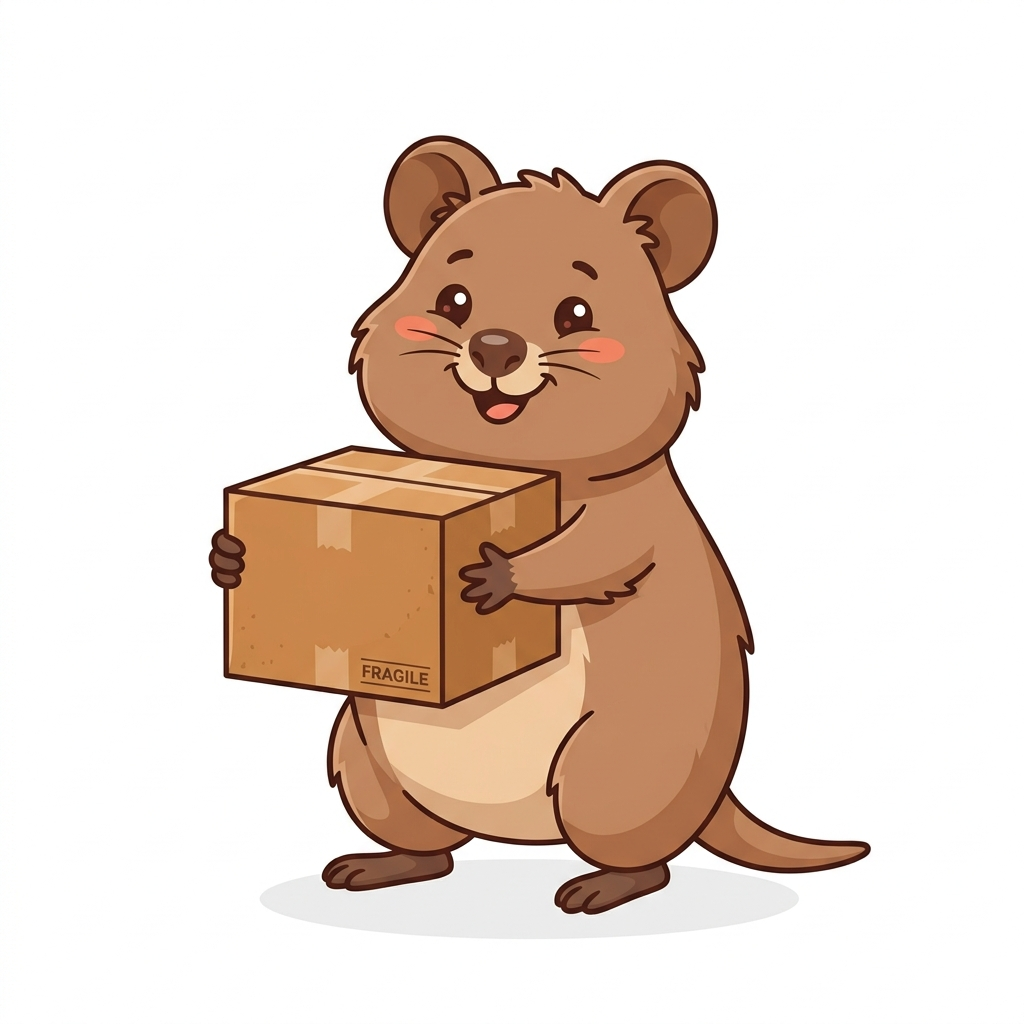
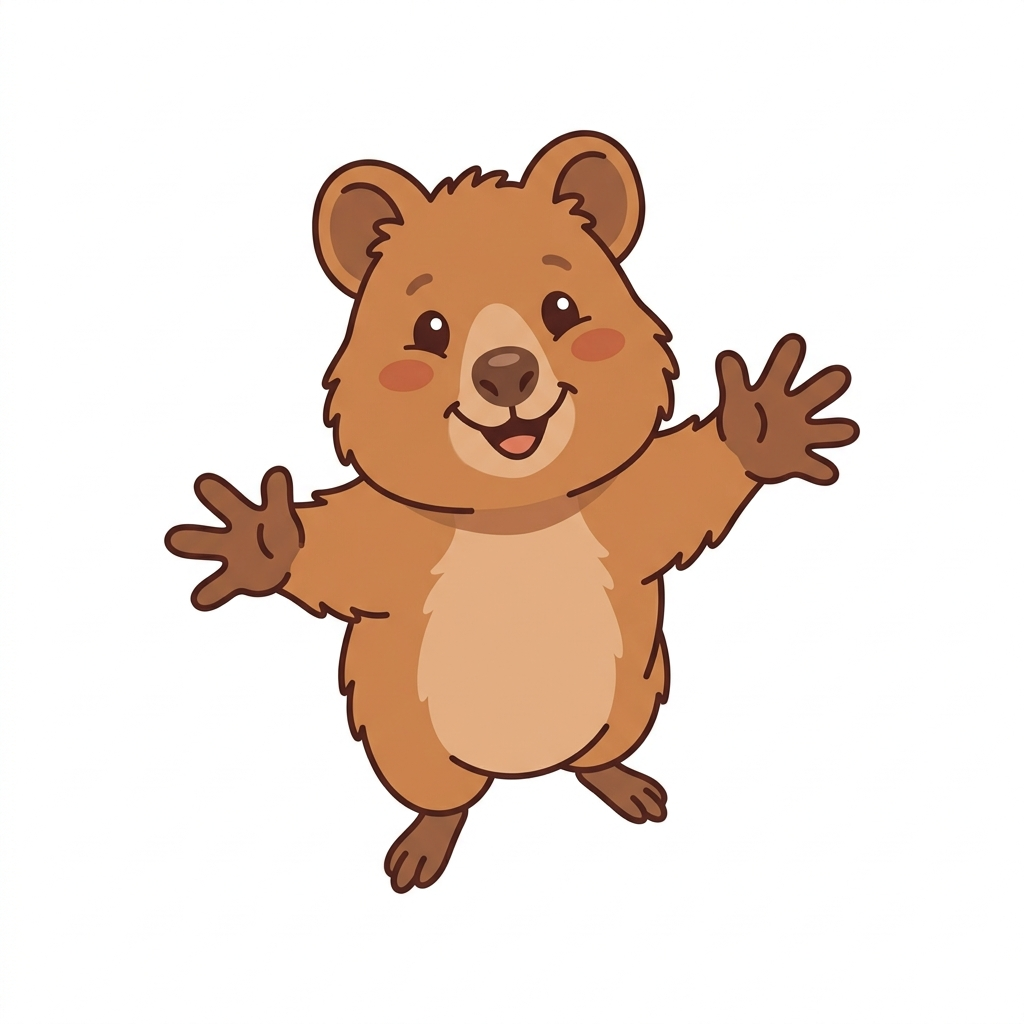
feat: refine quokka animations based on user feedback

Changed region(s): [[0.1562, 0.125, 0.8438, 0.9062]]

diff --git a/public/app.js b/public/app.js
@@ -1023,6 +1023,14 @@ function playPlusOneAnimation(btn) {
   const scrollListener = () => updatePosition();
   window.addEventListener('scroll', scrollListener, true);
   
+  const orbitWrapper = document.createElement('div');
+  orbitWrapper.style.position = 'absolute';
+  orbitWrapper.style.left = '0';
+  orbitWrapper.style.top = '0';
+  orbitWrapper.style.width = '0';
+  orbitWrapper.style.height = '0';
+  orbitWrapper.style.animation = 'quokkaOrbit 1.5s linear infinite';
+  
   const quokka = document.createElement('img');
   getTransparentImage('images/quokka_dance.png', (src) => {
     quokka.src = src;
@@ -1032,8 +1040,10 @@ function playPlusOneAnimation(btn) {
   quokka.style.height = 'auto';
   quokka.style.marginTop = '-55px';
   quokka.style.marginLeft = '-55px';
-  quokka.style.animation = 'quokkaOrbit 1.5s linear infinite';
-  container.appendChild(quokka);
+  quokka.style.animation = 'quokkaBounce 0.4s ease-in-out infinite';
+  
+  orbitWrapper.appendChild(quokka);
+  container.appendChild(orbitWrapper);
   
   const flowerInterval = setInterval(() => {
     const flower = document.createElement('div');
@@ -1125,40 +1135,55 @@ function playMinusOneCancelAnimation(btn) {
   const scrollListener = () => updatePosition();
   window.addEventListener('scroll', scrollListener, true);
   
-  const minusOne = document.createElement('div');
-  minusOne.innerText = '-1';
-  minusOne.style.position = 'absolute';
-  minusOne.style.color = 'var(--danger-color)';
-  minusOne.style.fontWeight = 'bold';
-  minusOne.style.fontSize = '32px';
-  minusOne.style.left = '-15px';
-  minusOne.style.top = '-30px';
-  minusOne.style.animation = 'floatUpFade 1s forwards';
-  container.appendChild(minusOne);
+  const quokkaMover = document.createElement('div');
+  quokkaMover.style.position = 'absolute';
+  quokkaMover.style.left = '40px';
+  quokkaMover.style.top = '-50px';
+  quokkaMover.style.width = '120px';
+  quokkaMover.style.height = '120px';
   
   const quokka = document.createElement('img');
   getTransparentImage('images/quokka_cry.png', (src) => {
     quokka.src = src;
   });
   quokka.style.position = 'absolute';
-  quokka.style.width = '120px';
+  quokka.style.width = '100%';
   quokka.style.height = 'auto';
-  quokka.style.left = '40px';
-  quokka.style.top = '-60px';
+  quokkaMover.appendChild(quokka);
+  container.appendChild(quokkaMover);
   
-  // 點擊動作後哭泣離開
-  quokka.style.transform = 'translateX(-20px) scale(1)';
-  quokka.style.transition = 'transform 0.2s';
-  container.appendChild(quokka);
+  // 1. Walk in
+  quokkaMover.style.animation = 'quokkaWalkIn 1s ease-out forwards';
+  quokka.style.animation = 'quokkaWobble 0.4s infinite';
   
   setTimeout(() => {
-    quokka.style.transform = 'translateX(0px) scale(1)';
-    quokka.style.animation = 'quokkaLeave 4.8s forwards';
+    // 2. Stop wiggling, do press
+    quokka.style.animation = 'none';
+    quokkaMover.style.animation = 'quokkaPress 0.4s ease-in-out forwards';
+    
     setTimeout(() => {
-      container.remove();
-      window.removeEventListener('scroll', scrollListener, true);
-    }, 4800);
-  }, 200);
+      // 3. Show -1 text
+      const minusOne = document.createElement('div');
+      minusOne.innerText = '-1';
+      minusOne.style.position = 'absolute';
+      minusOne.style.color = 'var(--danger-color)';
+      minusOne.style.fontWeight = 'bold';
+      minusOne.style.fontSize = '32px';
+      minusOne.style.left = '-15px';
+      minusOne.style.top = '-30px';
+      minusOne.style.animation = 'floatUpFade 1s forwards';
+      container.appendChild(minusOne);
+      
+      // 4. Wave and leave
+      setTimeout(() => {
+        quokkaMover.style.animation = 'quokkaLeave 4.5s forwards';
+        setTimeout(() => {
+          container.remove();
+          window.removeEventListener('scroll', scrollListener, true);
+        }, 4500);
+      }, 500);
+    }, 200);
+  }, 1000);
 }
 
 // 處理新的輸入框報名與防呆

diff --git a/public/style.css b/public/style.css
@@ -377,3 +377,24 @@ button:disabled { opacity: 0.5; cursor: not-allowed; animation: none !important;
   0%, 100% { transform: translateY(-50%) rotate(-5deg); }
   50% { transform: translateY(calc(-50% - 5px)) rotate(5deg); }
 }
+
+@keyframes quokkaBounce {
+  0%, 100% { transform: translateY(0) scale(1) rotate(0deg); }
+  50% { transform: translateY(-15px) scale(1.05) rotate(5deg); }
+}
+
+@keyframes quokkaWalkIn {
+  0% { transform: translateX(120px); opacity: 0; }
+  100% { transform: translateX(0); opacity: 1; }
+}
+
+@keyframes quokkaPress {
+  0% { transform: translateX(0) scale(1); }
+  50% { transform: translateX(-15px) scale(0.95); }
+  100% { transform: translateX(0) scale(1); }
+}
+
+@keyframes quokkaWobble {
+  0%, 100% { transform: translateY(0) rotate(-5deg); }
+  50% { transform: translateY(-5px) rotate(5deg); }
+}
